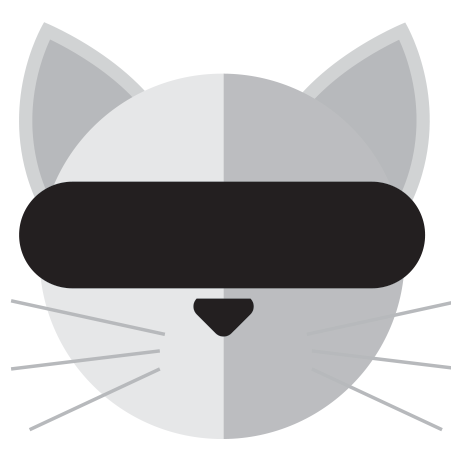
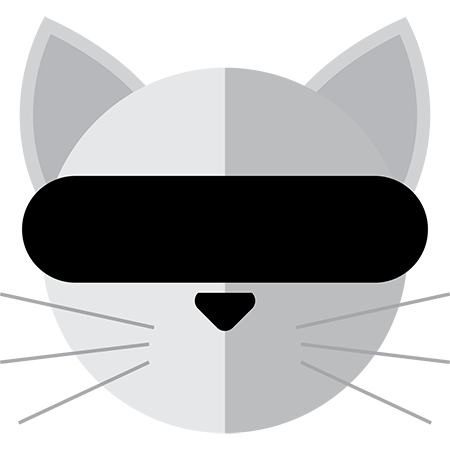
minor css and images

diff --git a/src/components/ModalScreen.js b/src/components/ModalScreen.js
@@ -1,0 +1,48 @@
+import React, {Component} from 'react';
+import {Modal, Text, TouchableHighlight, View} from 'react-native';
+
+class ModalExample extends Component {
+  state = {
+    modalVisible: false,
+  };
+
+  setModalVisible(visible) {
+    this.setState({modalVisible: visible});
+  }
+
+  render() {
+    return (
+      <View style={{marginTop: 22}}>
+        <Modal
+          animationType="slide"
+          transparent={false}
+          visible={this.state.modalVisible}
+          onRequestClose={() => {
+            alert('Modal has been closed.');
+          }}>
+          <View style={{marginTop: 22}}>
+            <View>
+              <Text>Hello World!</Text>
+
+              <TouchableHighlight
+                onPress={() => {
+                  this.setModalVisible(!this.state.modalVisible);
+                }}>
+                <Text>Hide Modal</Text>
+              </TouchableHighlight>
+            </View>
+          </View>
+        </Modal>
+
+        <TouchableHighlight
+          onPress={() => {
+            this.setModalVisible(true);
+          }}>
+          <Text>Show Modal</Text>
+        </TouchableHighlight>
+      </View>
+    );
+  }
+}
+
+export default ModalExample;

diff --git a/src/components/Router.js b/src/components/Router.js
@@ -9,7 +9,7 @@ import LoginForm from './LoginForm';
 const AppLogo = () => {
     return (
       <View style={{ alignItems: 'center', marginTop: 3 }}>
-        <Image source={require('../assets/img/k-logo.png')}
+        <Image source={require('../assets/img/kIcon.png')}
                style={{ width: 30, height: 30 }} />
       </View>
     );
